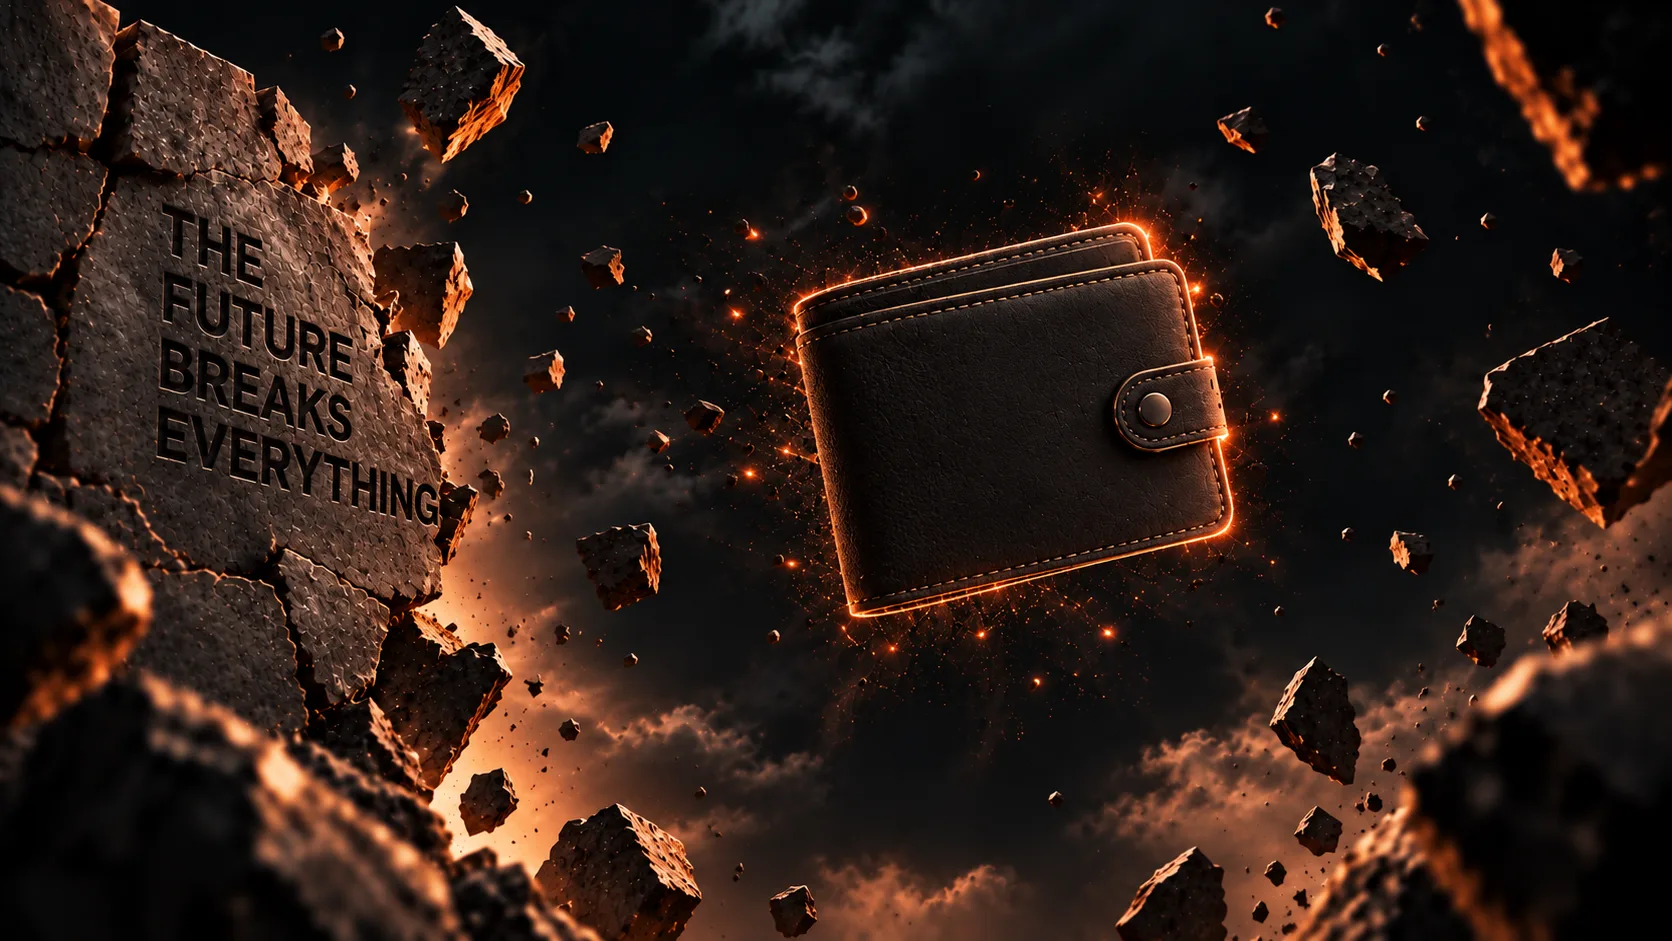
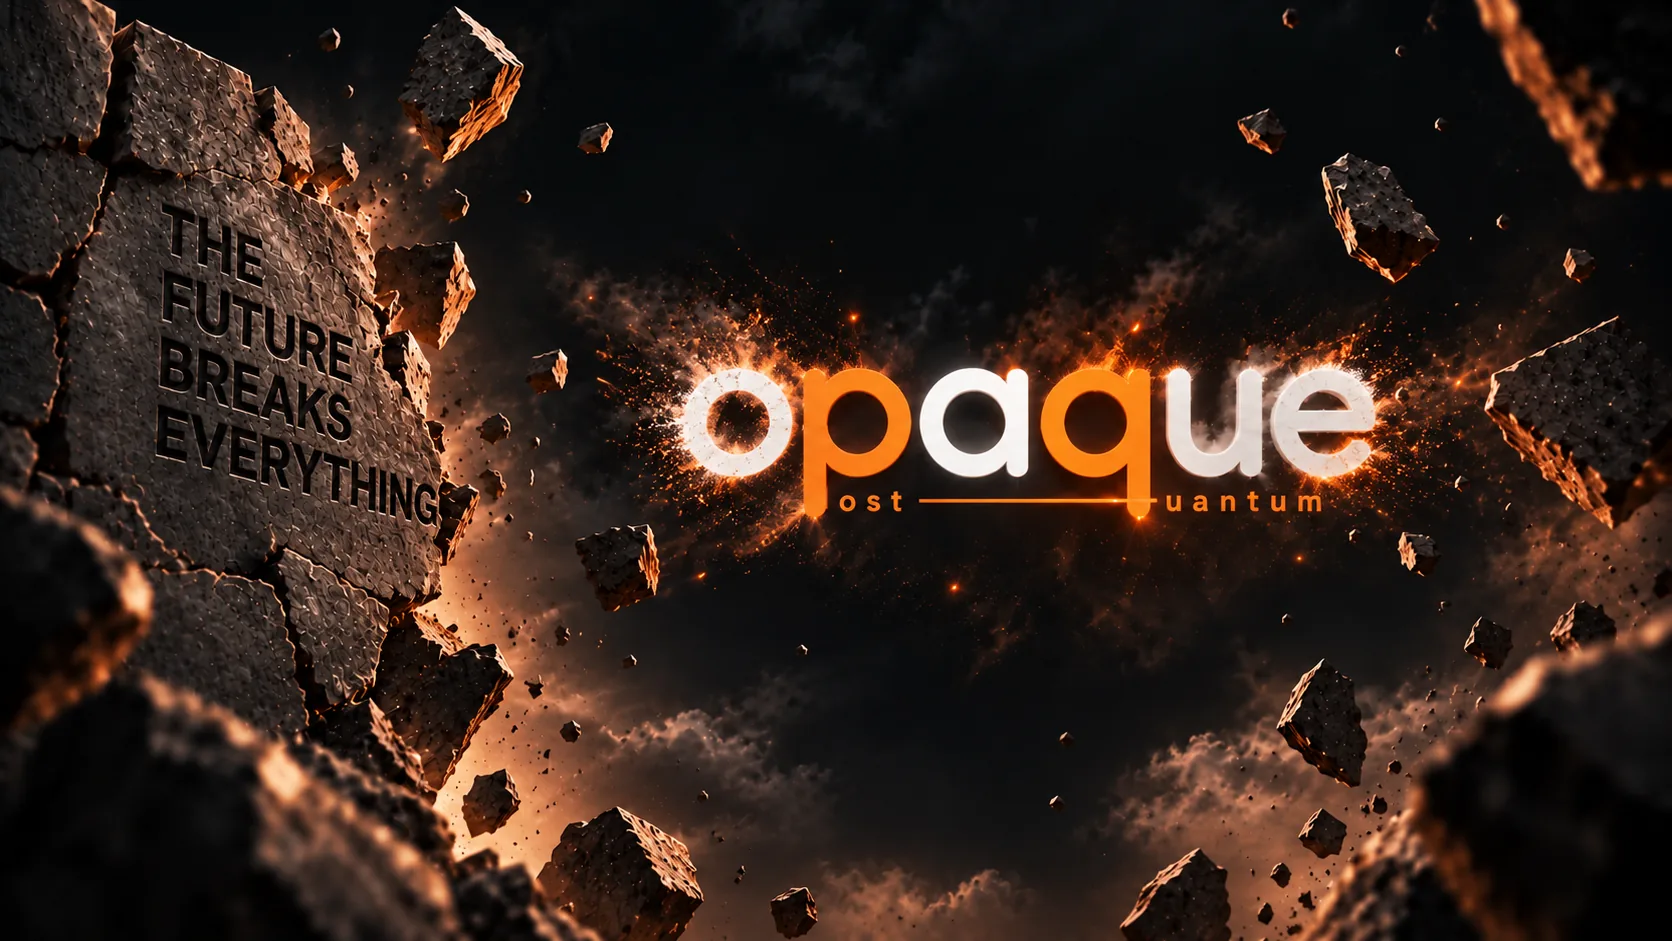
End the intro on the wordmark condensing out of the breach
Six new plates carry the hero from the broken wall to the mark standing
clean, replacing the wallet-in-a-sphere ending and the two hero-i frames
it ran through.

The tail's filenames run almost backwards — 07, then 12 down to 08 — so
the order is set by what each frame shows, not by its number. Ranking
them by brightness gets it wrong: burning embers are bright and survive a
blur just as solid type does, so that measure cannot tell "the mark is
there" from "this frame is on fire". The letterforms are white and the
fire around them is orange, so counting near-neutral bright pixels
separates the two. It climbs 386 -> 3.7k -> 9.8k -> 20.5k -> 23.6k ->
23.8k along the chain. hero-08 and hero-09 tie on white alone; the
white-to-ember ratio splits them, 0.71 against 0.60, so hero-08 is the
settled frame and ends the sequence.

Scroll distances refitted for the new chain against the same measured
model the existing values follow, d = 2.5 + 1.05 * mean pixel change.

Full screen no longer leaves a band of dead page below the artwork.
Pinning writes an inline pixel height over the stylesheet's 100svh, and
the full-screen transition is animated, so its final size can land after
the debounced resize has already measured. The handler now waits for the
viewport to stop moving on both axes before recomputing.

The logo was exported on a hero-sized canvas, 1672x941 with the artwork
occupying 1601x340 of it. The nav sizes the logo by height, so that
[…]

diff --git a/frontend/landing.css b/frontend/landing.css
@@ -248,121 +248,21 @@ body.in-hero .nav { opacity: 0; visibility: hidden; pointer-events: none; }
 }
 .label--bright { color: #e9e3dd; }
 
-/* ── The closing mark ──────────────────────────────────────────────────
-   The artwork fades to the page's own black and the wordmark resolves on it:
-   the letters first, then the p and q taking the accent, then the two words
-   they stand for, then the tagline. Built from live text rather than the logo
-   PNG because each of those steps has to move on its own.
-
-   The timeline in landing.ts drives every step through a custom property, so
-   the whole reveal is one scrubbed motion with no transitions of its own. */
-.reveal {
+/* The pay-off line, over the settled plate. Last thing the timeline touches. */
+.hero__line {
   position: absolute;
-  z-index: 9;
-  inset: 0;
-  display: grid;
-  place-content: center;
-  justify-items: center;
-  padding: 0 24px;
-  /* Black over the plates. --veil is driven by the scroll. */
-  background: rgb(0 0 0 / var(--veil, 0));
-  /* Not in the way until it is: the plates keep the pointer while fading. */
-  pointer-events: none;
-
-  /* One size drives the whole lockup, so the mark, the two expansions and
-     the tagline keep their proportions to each other at every viewport.
-     Bounded by width AND height: vw alone overflows a short landscape
-     window, and the descender words need the room below the baseline. */
-  --reveal-size: clamp(40px, min(13vw, 17vh), 150px);
-}
-
-/* Built on .wordmark above: same proportions, same joining rule, so the
-   opening mark and the one in the nav and the footer stay the same lockup.
-   Only what the reveal adds on top is set here — the size, the white base
-   the accent grows out of, and the two scroll-driven fades. */
-.reveal__mark {
-  --mark-size: var(--reveal-size);
-  position: relative;
-  display: inline-block;
-  width: max-content;
-  font-size: var(--mark-size);
-  /* Room for the absolutely-positioned expansions below the baseline, plus
-     the gap before the tagline. Against --reveal-size, not em: this element's
-     own font-size is the paragraph's, which would under-reserve badly. */
-  margin: 0 0 calc(var(--reveal-size) * 0.3);
-  opacity: var(--mark-in, 0);
-}
-
-/* The mark starts white and only the p and q take the ember. */
-.reveal__mark .wordmark__name { color: #fff; }
-
-
-/* The p and q cross from white to the accent. color-mix keeps the midpoint a
-   warm off-white rather than a grey, and degrades to plain white on an engine
-   that does not support it — which is the state they start in anyway. */
-.reveal__ch[data-accent] { color: #fff; }
-@supports (color: color-mix(in srgb, red, blue)) {
-  .reveal__ch[data-accent] {
-    color: color-mix(in srgb, var(--ember) calc(var(--accent, 0) * 100%), #fff);
-  }
-}
-
-/* The name is split into spans so the p and q can recolour, and the line is
-   broken across source lines for legibility — collapse that whitespace so it
-   does not open gaps between the letters. */
-.reveal__mark .wordmark__name { position: relative; z-index: 1; white-space: nowrap; font-size: 0; }
-.reveal__ch { position: relative; display: inline-block; font-size: var(--mark-size); }
-
-/* A second layer sits over the word, so the lower labels can line up with the
-   p/q descenders without becoming children of either glyph. The fixed edges
-   are the measured stems; only the rule flexes between them. */
-.reveal__subline {
-  position: absolute;
-  z-index: 2;
-  /* Each word clears its letter's descender stem — 0.29em into the p,
-     0.535em into the q, measured off the rendered Quicksand glyphs — plus
-     0.08em of air, so neither reads as crowded by the descender. */
-  left: calc(var(--mark-size) * 0.995);
-  right: calc(var(--mark-size) * 0.1);
-  top: calc(var(--mark-size) * 0.906);
-  display: grid;
-  grid-template-columns: max-content minmax(0, 1fr) max-content;
-  align-items: center;
-  column-gap: 0.5em;
-  /* The one value to change if these words want to be bigger or smaller. */
-  font-size: calc(var(--mark-size) * 0.2);
-  font-weight: 400;
-  letter-spacing: 0.16em;
-  line-height: 1;
-  color: var(--ember);
-  opacity: var(--sub-in, 0);
-  white-space: nowrap;
-}
-
-/* The rule joining the pair. It follows "ost" in flow and runs to the q's
-   stem — 2.62em of the sub's own size, measured off the rendered lockup,
-   less a margin each side. Letter-relative, so it holds wherever the font's
-   advances land rather than drifting like a percentage of the box would. */
-.reveal__join {
-  display: block;
-  position: relative;
-  z-index: 1;
-  height: max(2px, calc(var(--mark-size) * 0.023));
-  margin-right: -0.22em;
-  background: var(--ember);
-}
-
-.reveal__tag {
-  margin: 0.2em 0 0;
+  z-index: 8;
+  left: 50%;
+  top: 71%;
+  transform: translateX(-50%);
+  width: min(720px, 84vw);
+  margin: 0;
   text-align: center;
-  font-family: var(--mark);
-  /* Tied to the mark, so the lockup holds together at any size. */
-  font-size: max(14px, calc(var(--reveal-size) * 0.185));
-  font-weight: 500;
-  line-height: 1.4;
-  color: #efe9e3;
-  opacity: var(--tag-in, 0);
-  transform: translateY(calc((1 - var(--tag-in, 0)) * 10px));
+  font-size: clamp(18px, 2.2vw, 31px);
+  font-weight: 300;
+  line-height: 1.45;
+  opacity: 0;
+  text-shadow: 0 2px 28px rgba(0, 0, 0, 0.85);
 }
 
 /* ── Full-screen toggle ────────────────────────────────────────────────── */
@@ -394,6 +294,12 @@ body.in-hero .nav { opacity: 0; visibility: hidden; pointer-events: none; }
 .fs__out { display: none; }
 body.is-full .fs__in { display: none; }
 body.is-full .fs__out { display: block; }
+/* The scrollbar keeps ~15px of chrome down the right edge in full screen, and
+   hiding it does NOT buy that strip back: ScrollTrigger pins .hero__pin at an
+   inline pixel width taken from the layout width, so the artwork stays put and
+   you trade a scrollbar for an identical dark strip with no scroll affordance.
+   Widening it properly means taking the pin's width away from ScrollTrigger.
+   Left alone deliberately — measured, not assumed. */
 /* Once the header returns, the corner belongs to the header. */
 body:not(.in-hero) .fs { opacity: 0; visibility: hidden; pointer-events: none; }
 .fs[hidden] { display: none; }
@@ -415,12 +321,11 @@ body:not(.in-hero) .fs { opacity: 0; visibility: hidden; pointer-events: none; }
   left: 50%;
   top: calc(var(--p, 0) * 100%);
   width: 9px; height: 9px;
-  margin: -7px 0 0 -5px;
-  border: 1.5px solid var(--ember);
-  border-top: 0;
-  border-left: 0;
-  transform: rotate(45deg);
-  filter: drop-shadow(0 0 7px rgba(255, 122, 24, 0.65));
+  margin: -4.5px 0 0 -4.5px;
+  border-radius: 50%;
+  border: 1px solid var(--ember);
+  background: rgba(255, 122, 24, 0.18);
+  box-shadow: 0 0 14px rgba(255, 122, 24, 0.7);
 }
 .rail__hint {
   position: absolute;
@@ -858,6 +763,7 @@ body:not(.in-hero) .fs { opacity: 0; visibility: hidden; pointer-events: none; }
   .plate { object-position: 50% 50%; }
   .fs { width: 38px; height: 38px; }
   .hero__note { top: 12%; }
+  .hero__line { top: 66%; }
 }
 
 /* Keep an exit available throughout the pinned intro. */
@@ -897,7 +803,7 @@ body:not(.in-hero) .fs { opacity: 0; visibility: hidden; pointer-events: none; }
     letter-spacing: -0.035em;
   }
   .hero__note { display: none; }
-  /* --mark-size already tracks the viewport; nothing to override here. */
+  .hero__line { top: 76%; width: calc(100% - 64px); font-size: 16px; }
   .rail { top: 76%; bottom: 10%; }
   .nav__band { padding-block: 8px; }
   .nav__inner { gap: 12px; }
@@ -908,7 +814,7 @@ body:not(.in-hero) .fs { opacity: 0; visibility: hidden; pointer-events: none; }
 
 /* Static, readable opening and settled content when motion is disabled. */
 @media (prefers-reduced-motion: reduce) {
-  .reveal, .rail { display: none; }
+  .hero__line, .rail { display: none; }
   .nav, .btn, .fs, .card, .tag { transition: none; }
   /* The footer's social icons became named links; their underline grows on
      hover, and that growth is the thing being opted out of here. */

diff --git a/frontend/index.html b/frontend/index.html
@@ -34,7 +34,7 @@
   <div class="nav__band">
     <div class="wrap nav__inner">
       <a href="#top" class="nav__brand" aria-label="opaque — home">
-        <img src="media/logo.png" alt="opaque" width="600" height="200" decoding="async">
+        <img src="media/logo.png" alt="opaque" width="942" height="200" decoding="async">
       </a>
       <nav class="nav__links" aria-label="Primary">
         <a href="#how">How it works</a>
@@ -66,38 +66,53 @@
            alt="The words “The future breaks everything.” cut into a wall of black stone"
            decoding="async" fetchpriority="high">
       <img class="plate" data-wide src="media/hero-02.webp" alt="" aria-hidden="true" decoding="async">
-      <!-- Ordered by how far the break has got, NOT by filename. The names do
-           not run in sequence — hero-i1 belongs between hero-ii2 and hero-ii3,
-           and the wallet materialises 07 -> 10 -> 08 -> 09, from a faint
-           outline to a solid object. Both orders were measured, not guessed:
-           the mean pixel change between every candidate pair was compared and
-           the path with the smallest jumps chosen. Sorting any of this
-           alphabetically would run the sequence backwards in two places. This
-           order is deliberate; do not "tidy" it. (hero-i2 exists in media/ and is
-           deliberately not in the chain.) -->
+      <!-- Ordered by how far the break has got, NOT by filename. One pair is
+           out of sequence: hero-i1 belongs between hero-ii2 and hero-ii3.
+           That order was measured, not guessed — the mean pixel change between
+           every candidate pair was compared and the path with the smallest
+           jumps chosen. Sorting alphabetically would run the sequence
+           backwards there. This order is deliberate; do not "tidy" it.
+           (hero-i2 exists in media/ and is deliberately not in the chain.)
+
+           The tail is the wordmark coalescing out of the breach, and its
+           filenames run almost exactly BACKWARDS: 07, then 12 down to 08.
+           Sparks first, letterforms condensing out of them, the fire dying
+           back last, so it closes on the mark standing clean.
+
+           The measure is the white of the letterforms, not brightness. The
+           type is white and the fire around it is orange, so counting near-
+           neutral bright pixels separates "the mark is there" from "this frame
+           is merely on fire" — which plain luminance does not. It climbs 386 →
+           3.7k → 9.8k → 20.5k → 23.6k → 23.8k across the order below. The last
+           two are a dead heat on white alone; the white-to-ember ratio splits
+           them, 0.60 for hero-09 against 0.71 for hero-08, so hero-08 is the
+           settled one and ends the sequence. -->
       <img class="plate" data-wide src="media/hero-ii1.webp" alt="" aria-hidden="true" decoding="async">
       <img class="plate" data-wide src="media/hero-ii2.webp" alt="" aria-hidden="true" decoding="async">
       <img class="plate" data-wide src="media/hero-i1.webp" alt="" aria-hidden="true" decoding="async">
       <img class="plate" data-wide src="media/hero-ii3.webp" alt="" aria-hidden="true" decoding="async">
       <img class="plate" data-wide src="media/hero-2.1.webp" alt="" aria-hidden="true" decoding="async">
-      <img class="plate" data-wide src="media/hero-03.webp"
-           alt="The stone wall blown open, its fragments hanging in the dark" decoding="async">
+      <img class="plate" data-wide src="media/hero-03.webp" alt="" aria-hidden="true" decoding="async">
+      <img class="plate" data-wide src="media/hero-04.webp" alt="" aria-hidden="true" decoding="async">
+      <img class="plate" data-wide src="media/hero-05.webp" alt="" aria-hidden="true" decoding="async">
+      <img class="plate" data-wide src="media/hero-06.webp" alt="" aria-hidden="true" decoding="async">
+      <img class="plate" data-wide src="media/hero-07.webp" alt="" aria-hidden="true" decoding="async">
+      <img class="plate" data-wide src="media/hero-12.webp" alt="" aria-hidden="true" decoding="async">
+      <img class="plate" data-wide src="media/hero-11.webp" alt="" aria-hidden="true" decoding="async">
+      <img class="plate" data-wide src="media/hero-10.webp" alt="" aria-hidden="true" decoding="async">
+      <img class="plate" data-wide src="media/hero-09.webp" alt="" aria-hidden="true" decoding="async">
+      <img class="plate" data-wide src="media/hero-08.webp"
+           alt="The opaque post-quantum wordmark standing clean in the breach of the wall"
+           decoding="async">
 
       <!-- The headline is carved into the stone, so it exists for the eye and
            for nothing else. This carries the same words — off-screen, but there
            for search, for screen readers, and if the images never arrive. -->
       <h1 class="sr-only hero__title">The future breaks everything. But never your wallet.</h1>
-      <div class="reveal" data-reveal-mark aria-hidden="true">
-        <p class="wordmark reveal__mark">
-          <span class="wordmark__name reveal__name"><span class="reveal__ch">o</span><span
-            class="reveal__ch" data-accent>p</span><span
-            class="reveal__ch">a</span><span
-            class="reveal__ch" data-accent>q</span><span
-            class="reveal__ch">u</span><span class="reveal__ch">e</span></span>
-          <span class="reveal__subline"><span>ost</span><i class="reveal__join"></i><span>uantum</span></span>
-        </p>
-        <p class="reveal__tag" data-tag>a glance into the quantum-safe future</p>
-      </div>
+
+      <p class="label label--bright hero__note" data-note>Same internet.<br>A more private<br>tomorrow.</p>
+
+      <p class="hero__line" data-line>Even an opaque wall can be broken tomorrow.<br>But never your wallet.</p>
 
       <a class="hero__skip" href="#how">Skip intro <span aria-hidden="true">↗</span></a>
 

diff --git a/frontend/src/landing.ts b/frontend/src/landing.ts
@@ -9,7 +9,7 @@ const body = document.body;
 const pin = document.querySelector<HTMLElement>('.hero__pin');
 const plates = Array.from(document.querySelectorAll<HTMLImageElement>('[data-wide]'));
 const note = document.querySelector<HTMLElement>('[data-note]');
-const mark = document.querySelector<HTMLElement>('[data-reveal-mark]');
+const line = document.querySelector<HTMLElement>('[data-line]');
 const nav = document.querySelector<HTMLElement>('.nav');
 const fsButton = document.querySelector<HTMLButtonElement>('[data-fs]');
 const clamp = (n: number): number => Math.max(0, Math.min(1, n));
@@ -17,7 +17,15 @@ const segment = (p: number, start: number, end: number): number => clamp((p - st
 
 // Allocate more scroll to larger composition changes. Transitions meet without
 // pauses; the incoming image fades over an opaque base to avoid dark pulses.
-const distances = [4.6, 8.4, 5.5, 8.3, 8.1, 13.5, 27.7];
+//
+// One entry per gap between consecutive plates in index.html, so this array is
+// always one shorter than the chain — add or remove a plate and this changes
+// with it. Measured, not tuned by feel: the mean pixel change across each pair,
+// mapped through d = 2.68 + 1.01 * change, which is the line the original
+// values fit to within ~1 (R² 0.997). The constant is a floor, and it earns its
+// place — without it a near-identical pair gets so little scroll that it flicks
+// past instead of dissolving.
+const distances = [4.6, 8.4, 5.5, 8.3, 8.1, 13.5, 27.7, 32.5, 31.4, 26.8, 13.9, 10.5, 11.2, 10.8, 9.1, 8.7];
 const total = distances.reduce((sum, distance) => sum + distance, 0);
 const stops = [0];
 for (const distance of distances) stops.push(stops[stops.length - 1]! + distance / total);
@@ -28,10 +36,46 @@ if (fsButton && document.fullscreenEnabled) {
     const action = document.fullscreenElement ? document.exitFullscreen() : document.documentElement.requestFullscreen();
     void action.catch(() => {});
   });
+  // Pinning writes an inline pixel height onto .hero__pin, which overrides the
+  // 100svh in the stylesheet. A normal window resize is fine — ScrollTrigger
+  // recomputes that height itself. Entering full screen is not: the transition
+  // is animated, and the viewport's final height can land after the debounced
+  // resize has already measured. The hero is then left at the windowed height
+  // with a band of empty page below it, which is the whole of this bug.
+  //
+  // So wait for the viewport to actually stop moving before recomputing, rather
+  // than guessing a delay. Capped at 60 frames so it can never spin.
+  //
+  // Width is watched as well as height: going full screen usually changes both,
+  // and the two do not necessarily land on the same frame. Settling on height
+  // alone can refresh while the width is still moving, pinning the hero to a
+  // stale width — the same bug again, just on the other axis.
+  const refreshWhenSettled = (): void => {
+    let lastW = -1;
+    let lastH = -1;
+    let steady = 0;
+    let frames = 0;
+    const tick = (): void => {
+      const width = document.documentElement.clientWidth;
+      const height = window.innerHeight;
+      steady = width === lastW && height === lastH ? steady + 1 : 0;
+      lastW = width;
+      lastH = height;
+      frames += 1;
+      if (steady >= 2 || frames > 60) {
+        ScrollTrigger.refresh();
+        return;
+      }
+      requestAnimationFrame(tick);
+    };
+    requestAnimationFrame(tick);
+  };
+
   document.addEventListener('fullscreenchange', () => {
     const full = document.fullscreenElement !== null;
     body.classList.toggle('is-full', full);
     fsButton.setAttribute('aria-label', full ? 'Exit full screen' : 'Enter full screen');
+    refreshWhenSettled();
   });
 } else if (fsButton) {
   fsButton.hidden = true;
@@ -58,7 +102,7 @@ function initHero(): void {
   media.add({ motion: '(prefers-reduced-motion: no-preference)', narrow: '(max-width: 600px)' }, (context) => {
     if (!context.conditions?.motion) return;
     const render = (progress: number): void => {
-      const scene = segment(progress, 0.035, 0.62);
+      const scene = segment(progress, 0.035, 0.90);
       let current = frames.length - 2;
       for (let i = 0; i < frames.length - 1; i += 1) {
         if (scene < frames[i + 1]!.stop) { current = i; break; }
@@ -79,17 +123,10 @@ function initHero(): void {
       }
       pin.style.setProperty('--p', String(progress));
       if (note) note.style.opacity = String(1 - segment(progress, 0.04, 0.15));
-      if (mark) {
-        // Four overlapping steps, in the order they were asked for: the black
-        // closes over the artwork, the letters arrive on it, the p and q take
-        // the accent, the words they stand for follow, then the tagline.
-        // Each starts before the one before it has finished, so the whole
-        // thing reads as one movement rather than four cues.
-        mark.style.setProperty('--veil', String(segment(progress, 0.60, 0.74)));
-        mark.style.setProperty('--mark-in', String(segment(progress, 0.68, 0.80)));
-        mark.style.setProperty('--accent', String(segment(progress, 0.80, 0.88)));
-        mark.style.setProperty('--sub-in', String(segment(progress, 0.85, 0.93)));
-        mark.style.setProperty('--tag-in', String(segment(progress, 0.91, 0.99)));
+      if (line) {
+        const reveal = segment(progress, 0.88, 0.96);
+        line.style.opacity = String(reveal);
+        line.style.transform = `translate(-50%, ${(1 - reveal) * 12}px)`;
       }
     };
     const play = { progress: 0 };
@@ -114,7 +151,7 @@ function initHero(): void {
     syncHeader((tween.scrollTrigger?.progress ?? 0) < 1);
     return () => {
       body.classList.remove('in-hero');
-      for (const element of [...plates, pin, note, mark]) element?.removeAttribute('style');
+      for (const element of [...plates, pin, note, line]) element?.removeAttribute('style');
     };
   });
 }

diff --git a/frontend/app.html b/frontend/app.html
@@ -11,7 +11,7 @@
 <div class="bg" aria-hidden="true"></div>
 <main class="wallet">
   <header class="topbar">
-    <a class="brand" href="index.html" aria-label="Opaque home"><img src="media/logo.png" alt="opaque" width="600" height="200"></a>
+    <a class="brand" href="index.html" aria-label="Opaque home"><img src="media/logo.png" alt="opaque" width="942" height="200"></a>
     <div class="top-actions">
       <button class="network" id="network-button" type="button"><span id="network-label">Arc testnet</span></button>
       <button class="account" id="account-button" type="button"><span class="identicon"><i></i></span><span><b>Opaque account</b><small id="account-short">Starting…</small></span><strong>⋮</strong></button>
